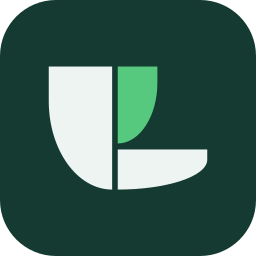
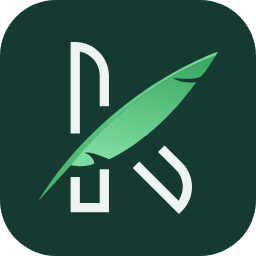
feat(layout): nouveau mark — le K à la plume, tracé depuis l'EPS source
Le mark vient du gabarit « gradient quill pen » : un K filaire traversé d'une
plume d'écriture. Les cinq tracés sont les opérateurs PostScript de l'EPS
convertis un pour un (mo/li/cv → M/L/C), donc la géométrie est exacte — elle
remplace les arcs d'ellipse que le mark précédent approchait à l'œil d'après un
raster. Le fond blanc et le texte COMPANY NAME / TAGLINE du gabarit sont écartés.
Le fût du K est en deux morceaux parce que la plume le coupe à mi-hauteur.

Le K suit text.primary, la plume un dégradé primary.light → primary.dark sur les
deux axes opposés relevés dans les matrices `ct` de l'EPS — ce sont ces deux sens
contraires qui donnent son galbe. Les huit variantes définissent ces trois
nuances, custom incluse, donc rien à ajouter au thème. light → dark plutôt que
l'écart exact de la source (~55 % de noircissement) : celui-ci faisait
disparaître la pointe de la plume sur les fonds sombres.

Les couleurs passent par useTheme() et non plus par sx. La config sx de MUI ne
rend `palette` accessible qu'à color, bgcolor et borderColor : l'ancien
sx={{ fill: 'text.primary' }} recevait la chaîne brute, était ignoré, et le mark
rendait en noir par défaut au lieu de suivre le thème. Les identifiants de
dégradé viennent de useId(), le logo pouvant être monté deux fois à la fois.

Proportions : en vertical le mark reprend le rapport mark/wordmark du lockup
d'origine (~0,47) ; en horizontal il est plus généreux que ce rapport, en dessous
[…]

Changed region(s): [[0.1562, 0.1562, 0.8438, 0.8438]]

diff --git a/src/components/layout/Logo.tsx b/src/components/layout/Logo.tsx
@@ -1,34 +1,53 @@
 'use client';
 
+import { useId } from 'react';
 import Box from '@mui/material/Box';
+import { useTheme } from '@mui/material/styles';
 import { BRAND_FONT_STACK } from '@/lib/themePrefs';
 
 const WORDMARK = 'Kepler';
 
 /**
- * Le K est formé de trois feuilles. Chacune suit la même construction : deux côtés
- * droits qui forment l'angle net, puis un arc d'ellipse qui rejoint leurs extrémités
- * libres — d'où le galbe asymétrique de la feuille. Tous les arcs vont dans le sens
- * horaire (`large-arc 0, sweep 1`), les gouttières entre feuilles font 24 unités.
+ * Le mark est un K filaire traversé d'une plume d'écriture. Les cinq tracés sont les
+ * opérateurs PostScript de l'EPS d'origine convertis un pour un (`mo`/`li`/`cv` →
+ * `M`/`L`/`C`) : la géométrie est exacte, pas approchée. Le fût du K est en deux
+ * morceaux parce que la plume le coupe à mi-hauteur.
  *
- * Tracés reconstruits d'après le lockup de référence (raster) : la silhouette et les
- * proportions y sont fidèles, mais les courbes sont une approximation. Remplacer les
- * trois `d` par ceux de l'export SVG d'origine suffit à rendre le mark exact.
+ * `viewBox` est recadrée sur la bbox du mark et le groupe ramène cette bbox à
+ * l'origine — ce qui laisse les coordonnées des dégradés (relevées dans la matrice
+ * `ct` de l'EPS) utilisables telles quelles en `userSpaceOnUse`.
  */
-const MARK_VIEWBOX = '0 0 680 528';
-/** Fût vertical du K, coiffé de la grande feuille : galbe vers le bas-gauche. */
-const LEAF_STEM = 'M0 0 H272 V528 A272 380 0 0 1 0 148 Z';
-/** Bras haut-droit — la seule feuille colorée du lockup. */
-const LEAF_ACCENT = 'M296 0 H466 V70 A170 260 0 0 1 296 330 Z';
-/** Bras bas-droit, galbe vers le bas-droite. */
-const LEAF_ARM = 'M296 356 H680 V400 A384 128 0 0 1 296 528 Z';
+const MARK_VIEWBOX = '0 0 194.466 185.993';
+const MARK_ORIGIN = 'translate(-152.767 -108.253)';
+
+/** Fût vertical du K, coiffé de l'arc haut-gauche. */
+const K_TOP_LEFT =
+	'M197.994 207.187 L187.994 207.187 L187.994 108.253 L192.994 108.253 C213.099 108.253 229.455 124.609 229.455 144.714 L229.455 177.883 L219.455 177.883 L219.455 144.714 C219.455 131.832 210.202 121.071 197.994 118.727 L197.994 207.187 Z';
+/** Talon bas-gauche du fût, là où la plume l'a interrompu. */
+const K_BOTTOM_LEFT =
+	'M229.455 292.174 L187.994 292.174 L187.994 254.071 L197.994 254.071 L197.994 282.174 L219.455 282.174 L219.455 245.813 L229.455 245.813 L229.455 292.174 Z';
+/** Jambe bas-droite, en équerre puis arc de raccord. */
+const K_BOTTOM_RIGHT =
+	'M305.018 294.246 L255.171 244.398 L262.243 237.327 L304.683 279.768 C311.658 269.477 310.591 255.326 301.483 246.216 L282.39 227.125 L289.462 220.054 L308.554 239.146 C322.77 253.362 322.77 276.493 308.554 290.71 L305.018 294.246 Z';
+/** Lame de la plume, du bec en haut-droite à la pointe en bas-gauche. */
+const QUILL_BLADE =
+	'M344.818 122.868 L344.818 122.869 C346.294 120.419 347.233 118.796 347.233 118.796 C347.233 118.796 228.935 158.073 152.767 280.478 L188.266 241.438 C188.266 241.438 249.365 158.8 344.818 122.868 Z';
+/** Hampe et barbes : repasse sur la lame avec un dégradé orienté à l'inverse, d'où le galbe. */
+const QUILL_SHAFT =
+	'M213.732 239.697 C213.732 239.697 213.222 231.511 202.651 228.092 C202.651 228.092 207.606 226.644 216.304 229.911 C225.003 233.178 229.836 234.992 229.836 234.992 C229.836 234.992 279.648 213.612 323.661 151.803 C323.661 151.803 307.463 153.687 298.397 147.185 C298.397 147.185 322.934 150.203 328.61 145.696 C332.761 142.399 340.798 129.541 344.818 122.869 L344.818 122.868 C249.365 158.8 188.266 241.438 188.266 241.438 C188.266 241.438 203.247 244.858 213.732 239.697 Z';
+
+/** Axes des deux dégradés, relevés dans l'EPS. Les sens opposés sont voulus. */
+const GRAD_BLADE = { x1: 362.452, y1: 92.529, x2: 110.665, y2: 307.139 };
+const GRAD_SHAFT = { x1: 248.707, y1: 241.025, x2: 287.148, y2: 114.131 };
 
 /**
- * Proportions relevées sur le lockup de référence : le wordmark est ~1,9× plus
- * large que le mark, d'où un mark à 52 % de la largeur totale en vertical.
+ * Fractions de la largeur totale du lockup. En vertical, `mark` reprend le rapport
+ * mark/wordmark du lockup d'origine (~0,47) pour un mark quasi carré. En horizontal il
+ * est plus généreux que ce rapport : le K est filaire, en dessous de ~34px de haut ses
+ * traits ne se lisent plus, et le header de la sidebar n'a pas de hauteur contrainte.
  */
-const VERTICAL = { mark: 0.52, gap: 0.06, font: 0.25 };
-const HORIZONTAL = { mark: 0.22, gap: 0.05, font: 0.22 };
+const VERTICAL = { mark: 0.44, gap: 0.06, font: 0.25 };
+const HORIZONTAL = { mark: 0.24, gap: 0.05, font: 0.22 };
 
 type LogoProps = {
 	width?: number;
@@ -37,13 +56,24 @@ type LogoProps = {
 };
 
 /**
- * Le mark est tracé en SVG plutôt qu'importé en raster : les deux feuilles neutres
- * suivent `text.primary` et la feuille d'accent `primary.main`, donc le logo reste
- * lisible et cohérent sur les sept variantes de thème, en clair comme en sombre.
+ * Le mark est tracé en SVG plutôt qu'importé en raster : le K suit `text.primary` et la
+ * plume un dégradé `primary.light` → `primary.dark`, donc le logo reste lisible et
+ * cohérent sur les huit variantes de thème, en clair comme en sombre.
+ *
+ * Les couleurs passent par `useTheme()` et non par `sx` : la config `sx` de MUI ne rend
+ * `palette` accessible qu'à `color`, `bgcolor` et `borderColor` — `fill` et `stopColor`
+ * y recevraient la chaîne brute et seraient ignorés.
  */
 export default function Logo({ width = 220, orientation = 'vertical' }: LogoProps) {
 	const vertical = orientation === 'vertical';
 	const scale = vertical ? VERTICAL : HORIZONTAL;
+	const { palette } = useTheme();
+
+	// Deux instances du logo peuvent coexister (splash + sidebar) : les identifiants de
+	// dégradé sont uniques par instance, sinon la première définition gagne pour tout le document.
+	const uid = useId();
+	const bladeGradient = `${uid}-blade`;
+	const shaftGradient = `${uid}-shaft`;
 
 	return (
 		<Box
@@ -69,9 +99,31 @@ export default function Logo({ width = 220, orientation = 'vertical' }: LogoProp
 					overflow: 'visible',
 				}}
 			>
-				<Box component="path" d={LEAF_STEM} sx={{ fill: 'text.primary' }} />
-				<Box component="path" d={LEAF_ARM} sx={{ fill: 'text.primary' }} />
-				<Box component="path" d={LEAF_ACCENT} sx={{ fill: 'primary.main' }} />
+				<defs>
+					<linearGradient
+						id={bladeGradient}
+						gradientUnits="userSpaceOnUse"
+						{...GRAD_BLADE}
+					>
+						<stop offset="0" stopColor={palette.primary.light} />
+						<stop offset="1" stopColor={palette.primary.dark} />
+					</linearGradient>
+					<linearGradient
+						id={shaftGradient}
+						gradientUnits="userSpaceOnUse"
+						{...GRAD_SHAFT}
+					>
+						<stop offset="0" stopColor={palette.primary.light} />
+						<stop offset="1" stopColor={palette.primary.dark} />
+					</linearGradient>
+				</defs>
+				<g transform={MARK_ORIGIN}>
+					<path d={K_TOP_LEFT} fill={palette.text.primary} />
+					<path d={K_BOTTOM_LEFT} fill={palette.text.primary} />
+					<path d={K_BOTTOM_RIGHT} fill={palette.text.primary} />
+					<path d={QUILL_BLADE} fill={`url(#${bladeGradient})`} />
+					<path d={QUILL_SHAFT} fill={`url(#${shaftGradient})`} />
+				</g>
 			</Box>
 
 			<Box
